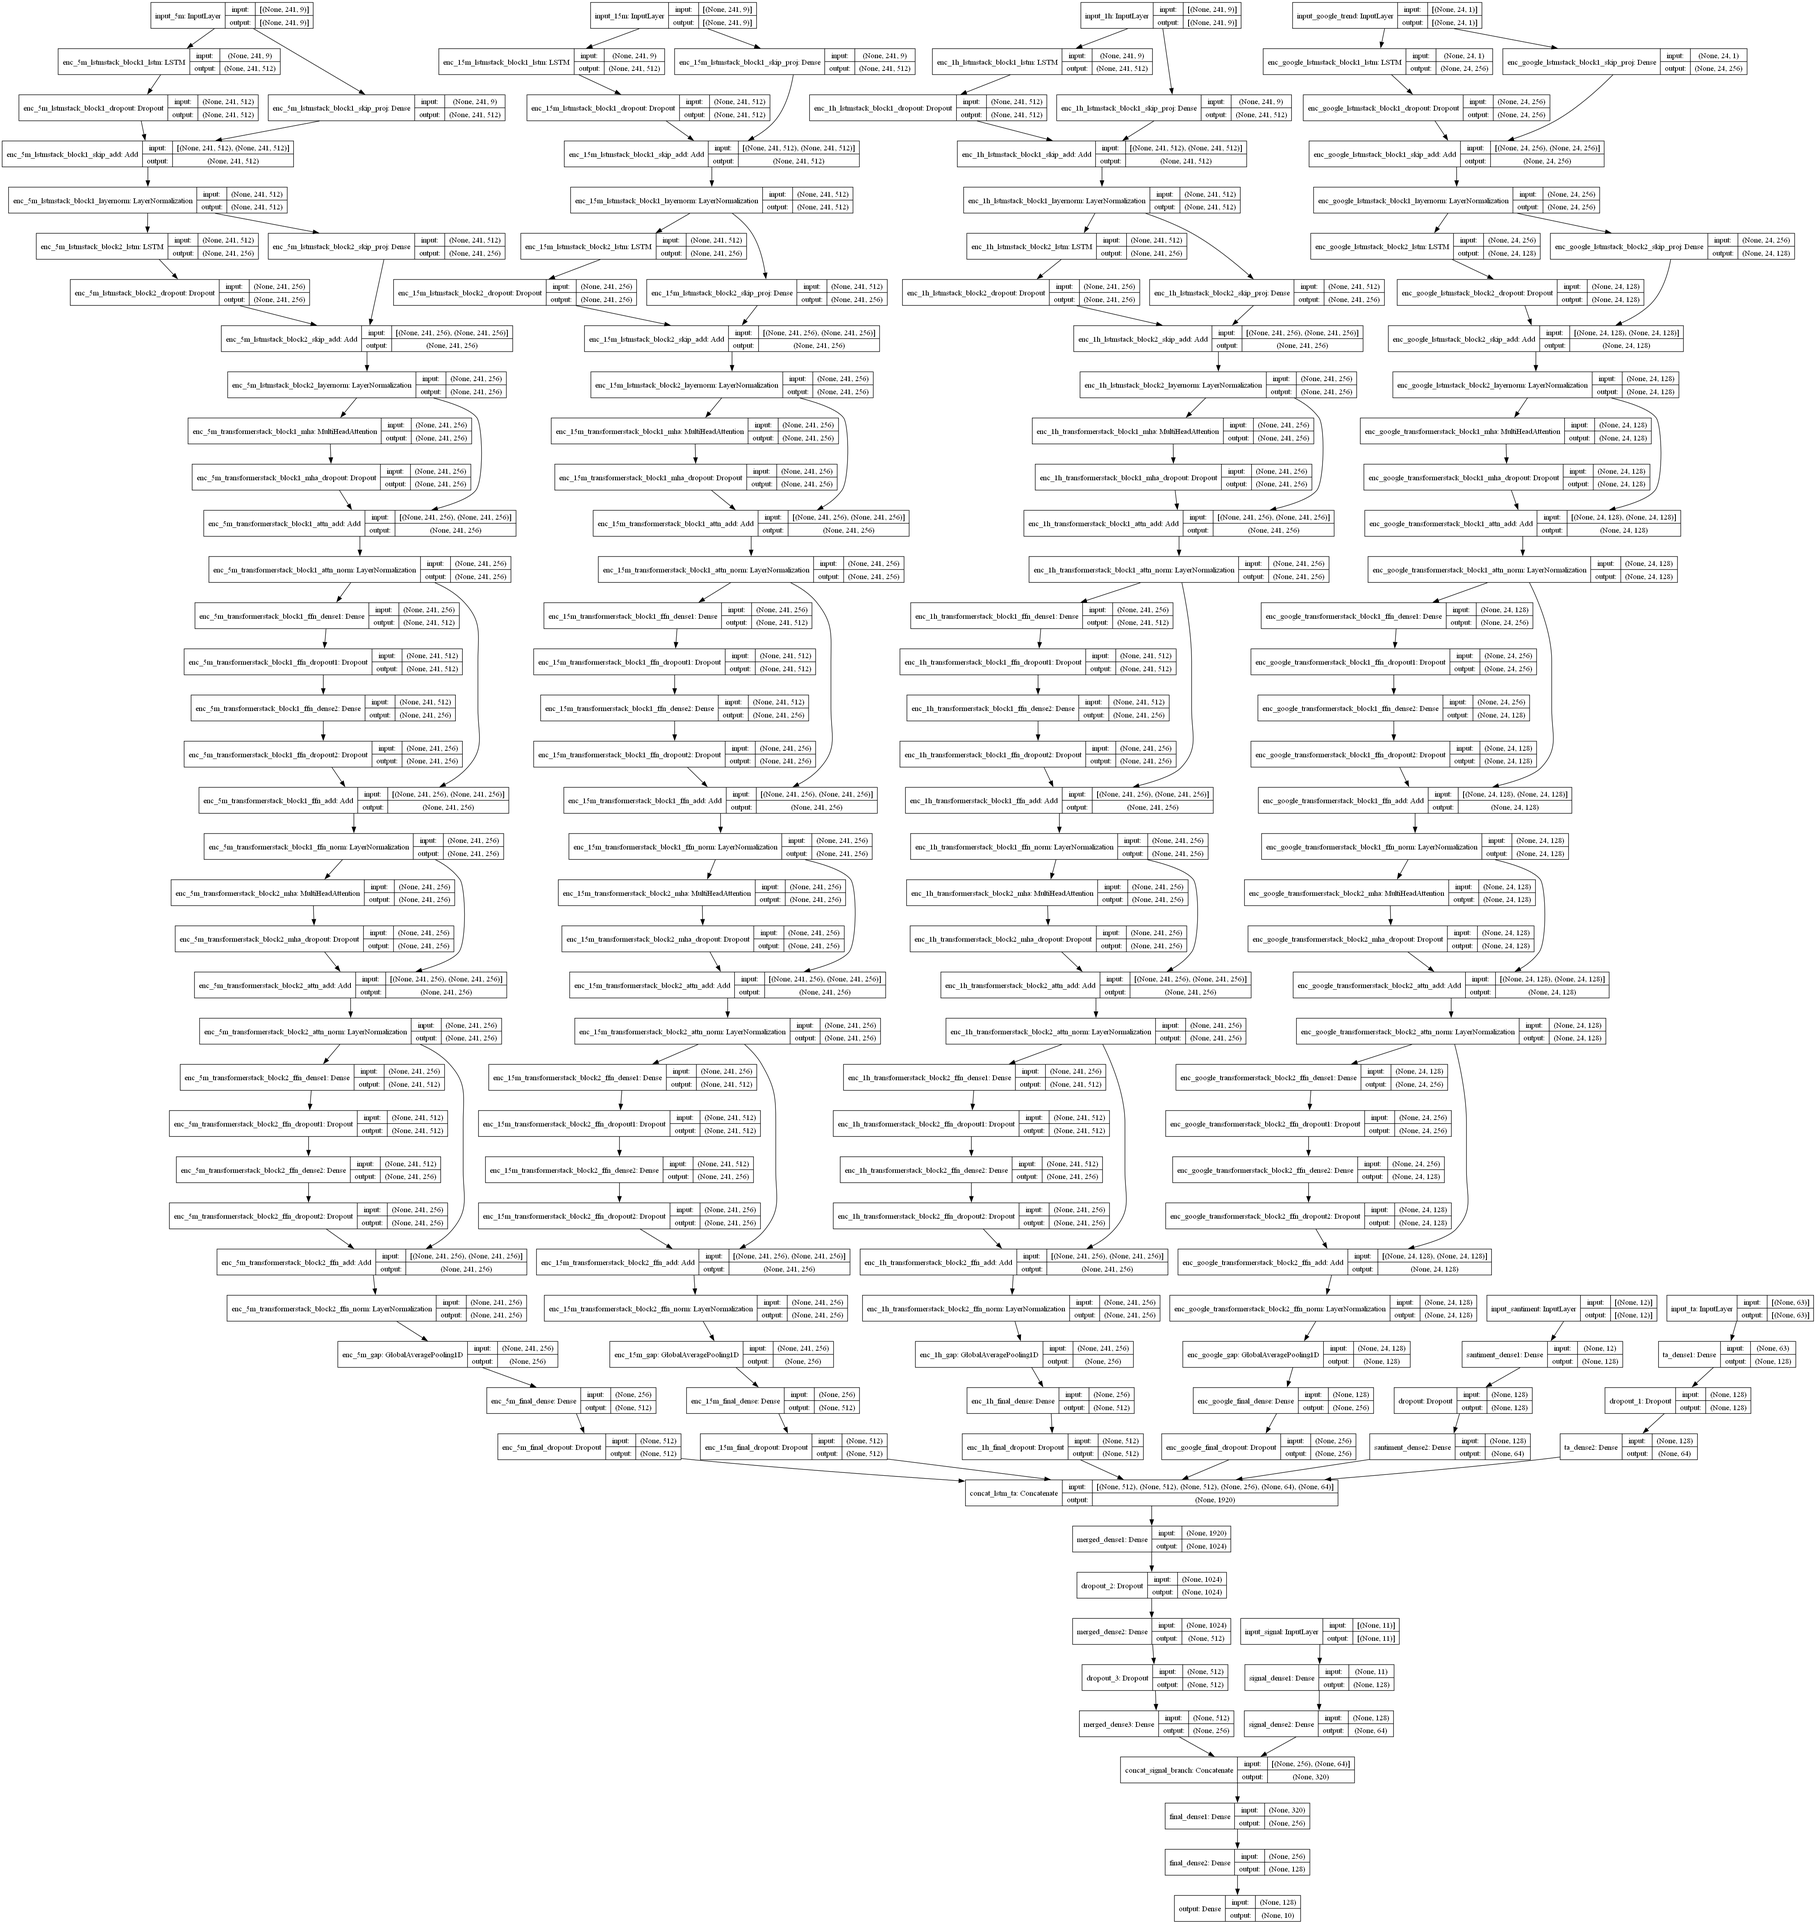
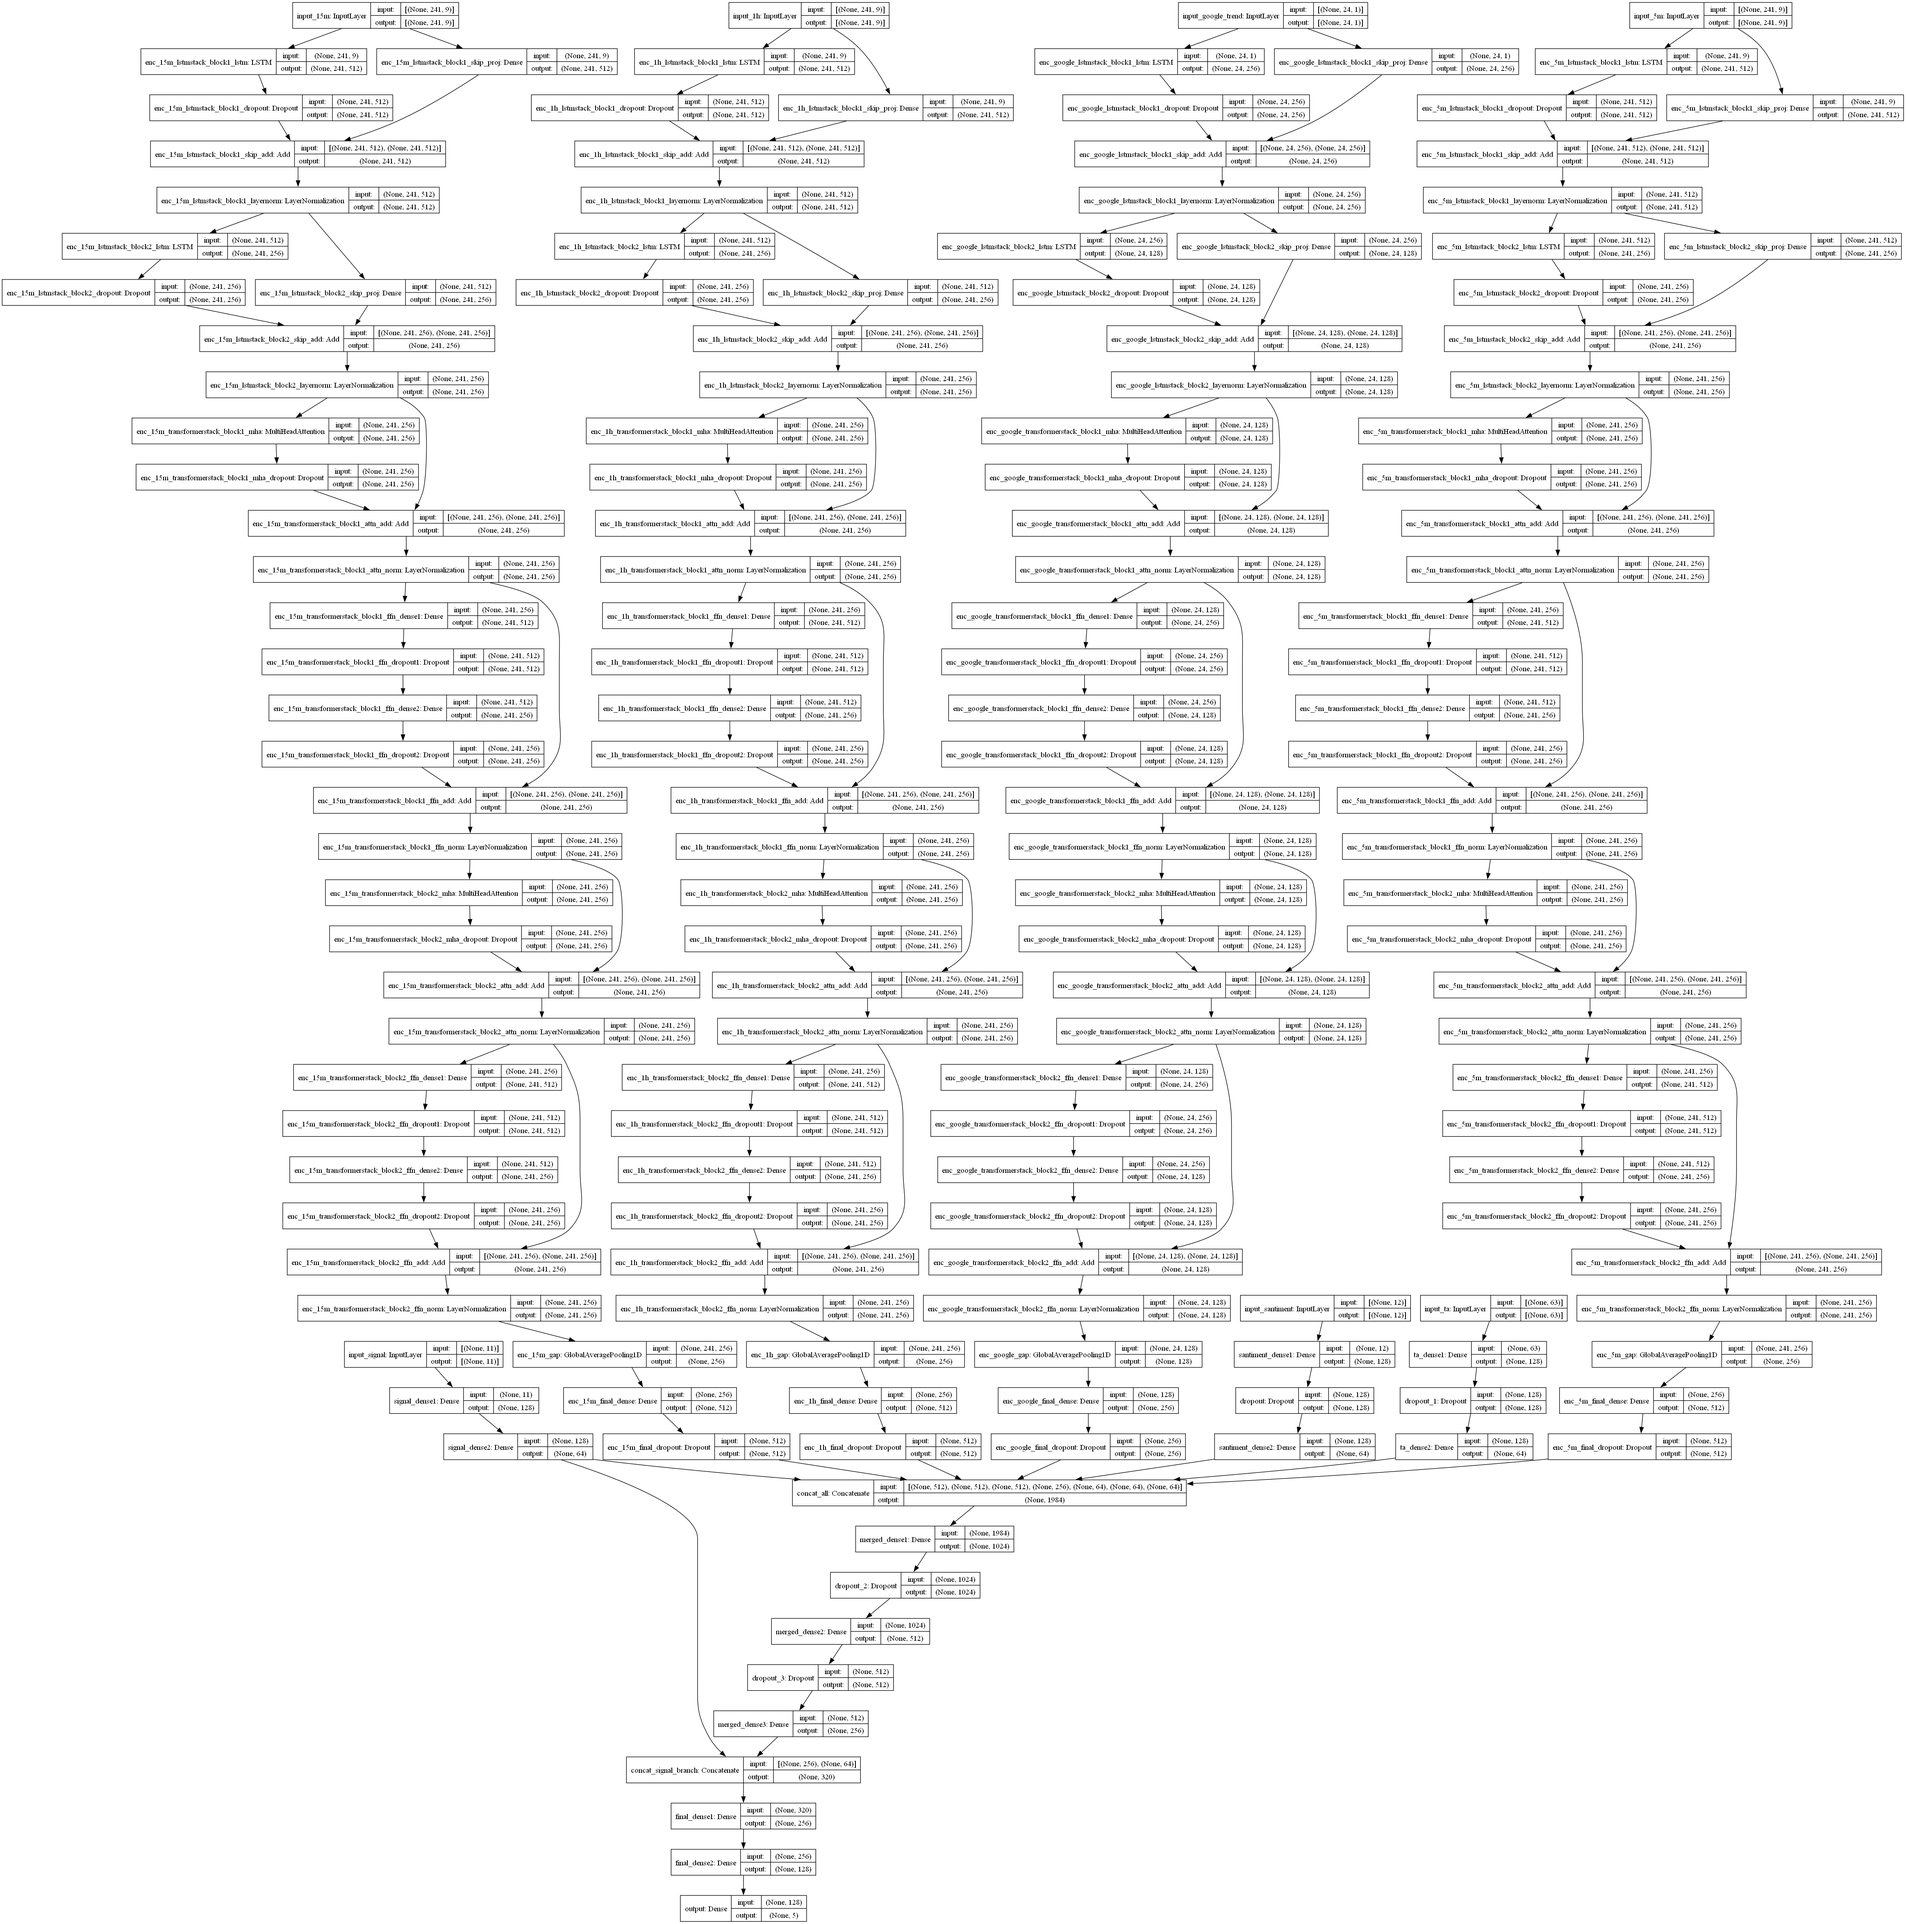
fighting hyperparameters and architecture...

diff --git a/botlib/tradebot.py b/botlib/tradebot.py
@@ -97,7 +97,7 @@ class TradingBot:
         self.symbol = "BTCEUR"
 
         # Basic params
-        self.max_trade_fraction = 0.1
+        self.max_trade_fraction = 0.2
         self.min_trade_eur_trade = 10.0
         self.timeframes = [
             Client.KLINE_INTERVAL_5MINUTE,
@@ -106,7 +106,6 @@ class TradingBot:
             Client.KLINE_INTERVAL_4HOUR,
             Client.KLINE_INTERVAL_1DAY
         ]
-        self.lookback_days = 7
 
         # CSV logging
         self.trade_log_file = "output/txs.csv"
@@ -128,6 +127,7 @@ class TradingBot:
 
         # DQN Agent => now the state_dim = 10 (multi-output) + 2 (ATR, BTC%, EUR%) = 13
         self.rl_state_dim = NUM_FUTURE_STEPS + 3
+        self.do_rl_train_step = True
         self.rl_agent = DQNAgent(
             state_dim=self.rl_state_dim
         )
@@ -257,7 +257,7 @@ class TradingBot:
         arr_ta, arr_ctx
     ):
         """
-        The advanced_model has 10 outputs => shape (1,10).
+        The advanced_model has 10 outputs => shape (1,5).
         We'll produce a vector of length 10 in [-100, 100].
         """
         s_5m, s_15m, s_1h, s_gt, s_sa, s_ta, s_ctx = prepare_for_model_inputs(
@@ -270,8 +270,8 @@ class TradingBot:
             raw_pred = self.advanced_model.predict(
                 [s_5m, s_15m, s_1h, s_gt, s_sa, s_ta, s_ctx],
                 verbose=0
-            )  # shape => (1,10)
-            signals_10 = raw_pred[0] * 100.0  # shape(10,)
+            )  # shape => (1,5)
+            signals_10 = raw_pred[0] * 100.0  # shape(5,)
             # clip to [-100,100]
             signals_10 = np.clip(signals_10, -100.0, 100.0)
             return signals_10
@@ -299,7 +299,7 @@ class TradingBot:
         use_model_pred = True
     ):
         """
-        We'll produce an array of shape(10,) from the advanced LSTM model (multi-output).
+        We'll produce an array of shape(5,) from the advanced LSTM model (multi-output).
         We'll still produce local GPT signals, news sentiment, etc.
 
         Return:
@@ -522,7 +522,7 @@ class TradingBot:
                 arr_ta_63, # shape=(1,63)
                 arr_ctx_11 # shape=(1,11)
             )
-            self.logger.info(f"[Aggregator] Model preds => {final_preds:.2f}")
+            self.logger.info(f"[Aggregator] Model preds => {str(final_preds)}")
         else:
             final_preds = np.zeros((10,), dtype=np.float32)
 
@@ -1055,7 +1055,8 @@ class TradingBot:
                 next_state= next_state,
                 done= done
             )
-            self.rl_agent.train_step()
+            if self.do_rl_train_step:
+                self.rl_agent.train_step()
             if threading.current_thread() is threading.main_thread():
                 self.rl_agent.save()
 
@@ -1098,7 +1099,8 @@ class TradingBot:
                 )
 
                 # training step again
-                self.rl_agent.train_step()
+                if self.do_rl_train_step:
+                    self.rl_agent.train_step()
 
                 # pop the oldest transition so the buffer moves forward by 1
                 self.nstep_buffer.pop(0)

diff --git a/botlib/nn_model.py b/botlib/nn_model.py
@@ -12,14 +12,13 @@ from .environment import (
 def weighted_mse_loss(y_true, y_pred):
     """
     Weighted MSE giving higher importance to nearer-term horizons.
-    For NUM_FUTURE_STEPS=10, a simple static weighting:
-        [2.0, 1.8, 1.5, 1.3, 1.1, 1.0, 1.0, 1.0, 1.0, 1.0]
+    For NUM_FUTURE_STEPS=5, a simple static weighting.
     """
     y_true = tf.cast(y_true, tf.float32)
     y_pred = tf.cast(y_pred, tf.float32)
-    weights = tf.constant([2.0, 1.8, 1.5, 1.3, 1.1, 1.0, 1.0, 1.0, 1.0, 1.0],
+    weights = tf.constant([2.0, 1.7, 1.4, 1.2, 1.0],
                           dtype=tf.float32)
-    weights = tf.reshape(weights, (1, -1))  # shape(1,10)
+    weights = tf.reshape(weights, (1, -1))  # shape(1,5)
     err_sq = tf.square(y_true - y_pred)
     weighted_err_sq = err_sq * weights
     return tf.reduce_mean(weighted_err_sq, axis=-1)
@@ -325,25 +324,25 @@ def build_multi_timeframe_model(
         x_ta = layers.Dropout(dropout_rate)(x_ta)
     x_ta = layers.Dense(64, activation='relu', name="ta_dense2")(x_ta)
 
-    # === Merge time-series + santiment + TA ===
-    merged_lstm_ta = layers.concatenate(
-        [x_5m, x_15m, x_1h, x_google, x_santiment, x_ta],
-        name="concat_lstm_ta"
+    # === final signal input (11-dim) ===
+    input_signal = layers.Input(shape=(signal_dim,), name="input_signal")
+    x_sig = layers.Dense(128, activation='relu', name="signal_dense1")(input_signal)
+    x_sig = layers.Dense(64, activation='relu', name="signal_dense2")(x_sig)
+    
+    # === Merge ALL ===
+    merged_all = layers.concatenate(
+        [x_5m, x_15m, x_1h, x_google, x_santiment, x_ta, x_sig],
+        name="concat_all"
     )
 
     # A deeper aggregator with bigger hidden layers
-    x = layers.Dense(1024, activation='relu', name="merged_dense1")(merged_lstm_ta)
+    x = layers.Dense(1024, activation='relu', name="merged_dense1")(merged_all)
     if dropout_rate > 1e-7:
         x = layers.Dropout(dropout_rate)(x)
     x = layers.Dense(512, activation='relu', name="merged_dense2")(x)
     if dropout_rate > 1e-7:
         x = layers.Dropout(dropout_rate)(x)
     x = layers.Dense(256, activation='relu', name="merged_dense3")(x)
-
-    # === final signal input (11-dim) ===
-    input_signal = layers.Input(shape=(signal_dim,), name="input_signal")
-    x_sig = layers.Dense(128, activation='relu', name="signal_dense1")(input_signal)
-    x_sig = layers.Dense(64, activation='relu', name="signal_dense2")(x_sig)
 
     # === Merge aggregator with signals
     x_merged_signal = layers.concatenate([x, x_sig], name="concat_signal_branch")
@@ -373,7 +372,7 @@ def build_multi_timeframe_model(
     )
 
     optimizer = tfa.optimizers.AdamW(
-        learning_rate=1e-4,
+        learning_rate=0.001,         # Before: 0.0001
         weight_decay=1e-5,
         beta_1=0.9,
         beta_2=0.999,

diff --git a/backtester.py b/backtester.py
@@ -47,14 +47,15 @@ from botlib.environment import (
 ###############################################################################
 # CONFIG
 ###############################################################################
-MAKE_NN_TRAINING_DATA = True
-MAKE_RL_TRAINING_DATA = False       # Only True when NN model is trained already.
+MAKE_NN_TRAINING_DATA = False
+MAKE_RL_TRAINING_DATA = True       # Only True when NN model is trained already.
 BLOCK_SANTIMENT_FETCHING = True
 DO_USE_REAL_GPT = False
-DO_USE_MODEL_PRED = False
+DO_USE_MODEL_PRED = True            # Set to True for Backtesting.
+DO_RL_TRAIN_STEP = False
 
 # Adjust these for the time range:
-START_TIME = datetime.datetime(2024, 5, 3)
+START_TIME = datetime.datetime(2024, 9, 1, 1)
 END_TIME   = datetime.datetime(2025, 1, 1)
 
 # If >1, we only reliably gather training_data. (Scenario logs may be duplicated.)
@@ -104,6 +105,7 @@ class HistoricalTradingBot(TradingBot):
         self.logger = get_logger("HistoricalTradingBot")
 
         # Track the previous iteration's RL state & action
+        self.do_rl_train_step = DO_RL_TRAIN_STEP
         self.prev_rl_state_vec = None
         self.prev_action = None
 

diff --git a/fitter.py b/fitter.py
@@ -331,14 +331,15 @@ class Trainer:
         early_stop = tf.keras.callbacks.EarlyStopping(
             monitor='val_loss', 
             patience=self.early_stop_patience, 
-            restore_best_weights=True
+            restore_best_weights=True,
+            verbose=1
         )
         
         reduce_lr = tf.keras.callbacks.ReduceLROnPlateau(
             monitor='val_loss',
-            factor=0.5,        # reduce LR by half
+            factor=2/3,         # Reduce LR by 33%, new LR is 2/3 of the previous LR
             patience=10,
-            min_lr=1e-6,       # do not go below this LR
+            min_lr=1e-7,
             verbose=1
         )
 
@@ -537,3 +538,12 @@ def main():
 
 if __name__ == "__main__":
     main()
+
+
+
+
+# Before   learning_rate=0.0005:     loss: 0.2082 - val_loss: 0.2415
+# Before   learning_rate=0.001:      loss: 0.2082 - val_loss: 0.2415
+
+
+# python fitter.py --early_stop_patience 50 --batch_size 32
